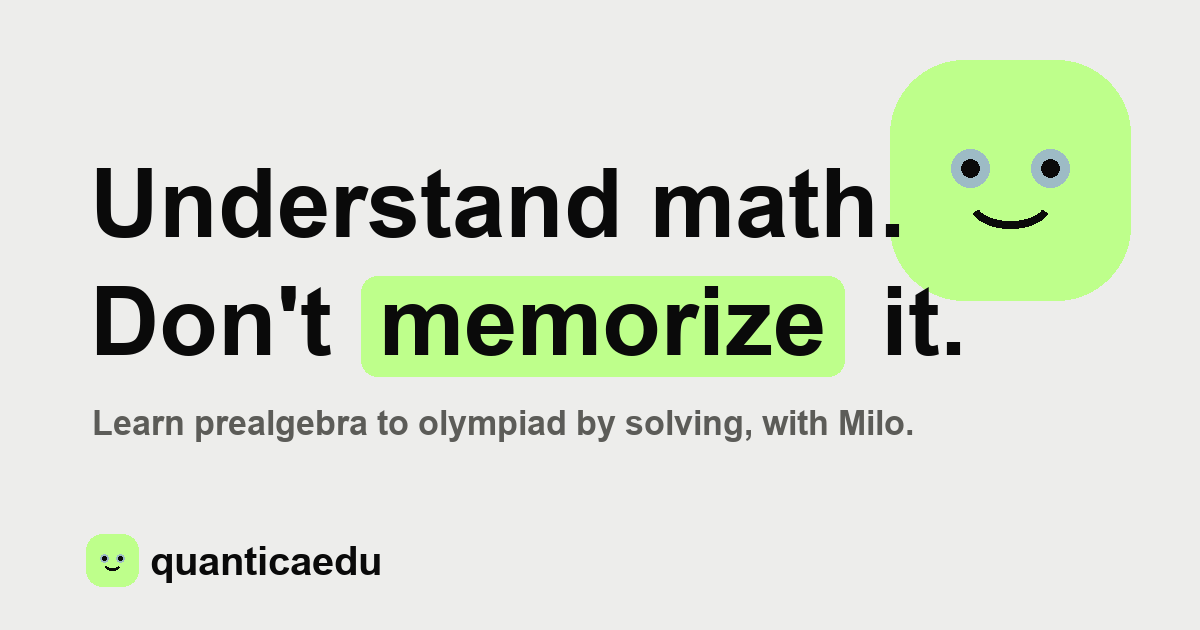
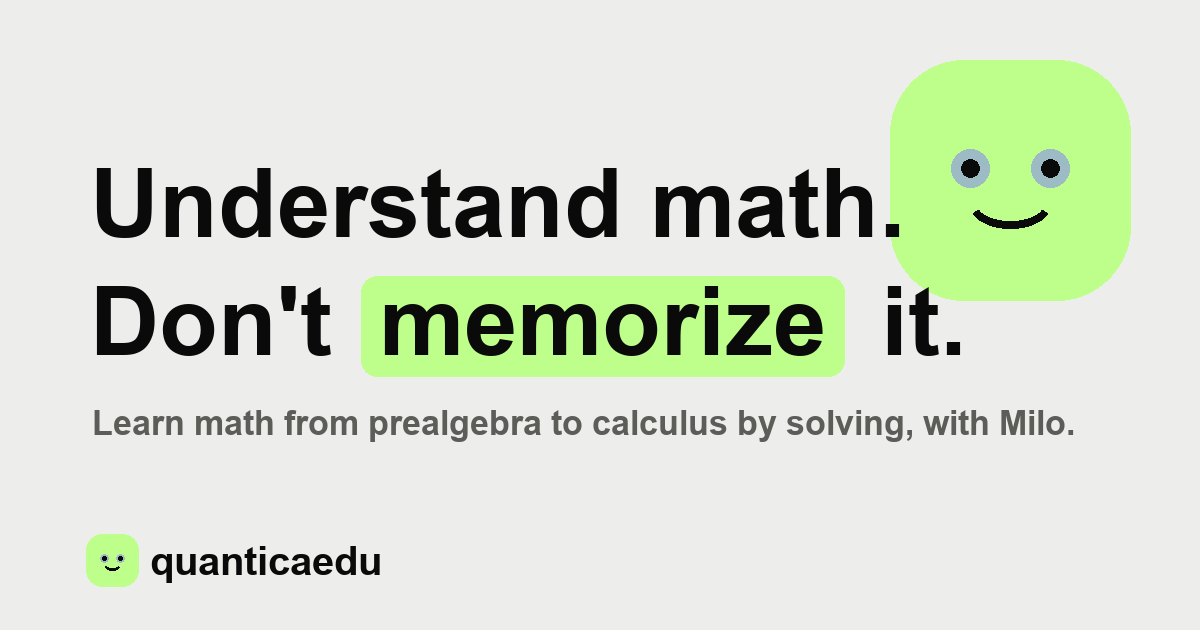
Landing: reposition as prealgebra to calculus, the complete rigorous path
Replace every 'olympiad' reference with the straight scope: course-path
heading becomes 'From prealgebra to calculus. The complete, rigorous
mathematics education.', the value strip, meta description, Open Graph,
Twitter and Organization JSON-LD all now say prealgebra to calculus, a
Calculus 'Soon' pill completes the roadmap, and og-default.png is
regenerated with the new subtitle.

Changed region(s): [[0.1542, 0.6333, 0.8942, 0.7238]]

diff --git a/landing.html b/landing.html
@@ -1013,21 +1013,21 @@
   }
 </style>
 
-<meta name="description" content="Quantica teaches math from prealgebra to olympiad by having you solve, not memorize. Instant feedback, layered hints, and Milo, a tutor that helps you find the answer yourself.">
+<meta name="description" content="Quantica teaches math from prealgebra to calculus by having you solve, not memorize. Instant feedback, layered hints, and Milo, a tutor that helps you find the answer yourself.">
 <link rel="canonical" href="https://quanticaedu.com/">
 <meta property="og:type" content="website">
 <meta property="og:site_name" content="Quantica">
 <meta property="og:title" content="Quantica | Learn math by solving">
-<meta property="og:description" content="Prealgebra to olympiad. Learn by solving real problems with instant feedback and Milo, your tutor.">
+<meta property="og:description" content="Prealgebra to calculus. Learn by solving real problems with instant feedback and Milo, your tutor.">
 <meta property="og:url" content="https://quanticaedu.com/">
 <meta property="og:image" content="https://quanticaedu.com/og-default.png">
 <meta property="og:image:width" content="1200">
 <meta property="og:image:height" content="630">
 <meta name="twitter:card" content="summary_large_image">
 <meta name="twitter:title" content="Quantica | Learn math by solving">
-<meta name="twitter:description" content="Prealgebra to olympiad. Learn by solving, with Milo.">
+<meta name="twitter:description" content="Prealgebra to calculus. Learn by solving, with Milo.">
 <meta name="twitter:image" content="https://quanticaedu.com/og-default.png">
-<script type="application/ld+json">{"@context":"https://schema.org","@type":"Organization","name":"Quantica","url":"https://quanticaedu.com/","logo":"https://quanticaedu.com/og-default.png","sameAs":[],"description":"Quantica teaches math from prealgebra to olympiad by having you solve, not memorize."}</script>
+<script type="application/ld+json">{"@context":"https://schema.org","@type":"Organization","name":"Quantica","url":"https://quanticaedu.com/","logo":"https://quanticaedu.com/og-default.png","sameAs":[],"description":"Quantica teaches math from prealgebra to calculus by having you solve, not memorize."}</script>
 
 <style id="app-wembi-theme">
 /* Re-skin the course app to the landing's palette (cream + lime + dark navy + Space Grotesk).
@@ -1515,7 +1515,7 @@ h1,h2,h3,h4,.logo,.tour-pop h4,.auth-card h2,.demo .top .t,.quad .cell b,.cpanel
   <div class="wmb-strip">
     <div class="wmb-strip-item"><p class="wmb-kicker">Problem-first</p><h3>You solve, we scaffold.</h3><p class="wmb-muted">Every lesson is a problem to crack, not a worksheet to grind.</p></div>
     <div class="wmb-strip-item"><p class="wmb-kicker">Guided</p><h3>Never spoiled.</h3><p class="wmb-muted">Layered hints and Milo nudge you toward the answer.</p></div>
-    <div class="wmb-strip-item"><p class="wmb-kicker">One path</p><h3>All access.</h3><p class="wmb-muted">Prealgebra to pre-olympiad, one continuous path.</p></div>
+    <div class="wmb-strip-item"><p class="wmb-kicker">One path</p><h3>All access.</h3><p class="wmb-muted">Prealgebra to calculus, one continuous path.</p></div>
   </div>
 </section>
 
@@ -1698,7 +1698,7 @@ h1,h2,h3,h4,.logo,.tour-pop h4,.auth-card h2,.demo .top .t,.quad .cell b,.cpanel
 
 <!-- COURSE PATH -->
 <section class="wmb-wrap wmb-section wmb-path" id="path">
-  <h2 class="wmb-h2">From arithmetic to <span class="wmb-mark">olympiad</span>. One continuous journey.</h2>
+  <h2 class="wmb-h2">From prealgebra to <span class="wmb-mark">calculus</span>. The complete, rigorous mathematics education.</h2>
   <div class="wmb-pills">
     <a class="wmb-pill wmb-pill--on" href="/prealgebra"><span class="wmb-dot"></span>Prealgebra</a>
     <span class="wmb-pill wmb-pill--soon">Algebra <em>Soon</em></span>
@@ -1707,6 +1707,7 @@ h1,h2,h3,h4,.logo,.tour-pop h4,.auth-card h2,.demo .top .t,.quad .cell b,.cpanel
     <span class="wmb-pill wmb-pill--soon">Counting <em>Soon</em></span>
     <span class="wmb-pill wmb-pill--soon">Logic <em>Soon</em></span>
     <span class="wmb-pill wmb-pill--soon">Intermediate <em>Soon</em></span>
+    <span class="wmb-pill wmb-pill--soon">Calculus <em>Soon</em></span>
   </div>
   <p style="margin-top:28px;font-size:17px"><a href="/prealgebra" style="border-bottom:2px solid var(--wmb-ink);text-decoration:none;font-weight:600">Browse the full Prealgebra syllabus &mdash; 12 chapters, 64 lessons &rarr;</a></p>
 </section>